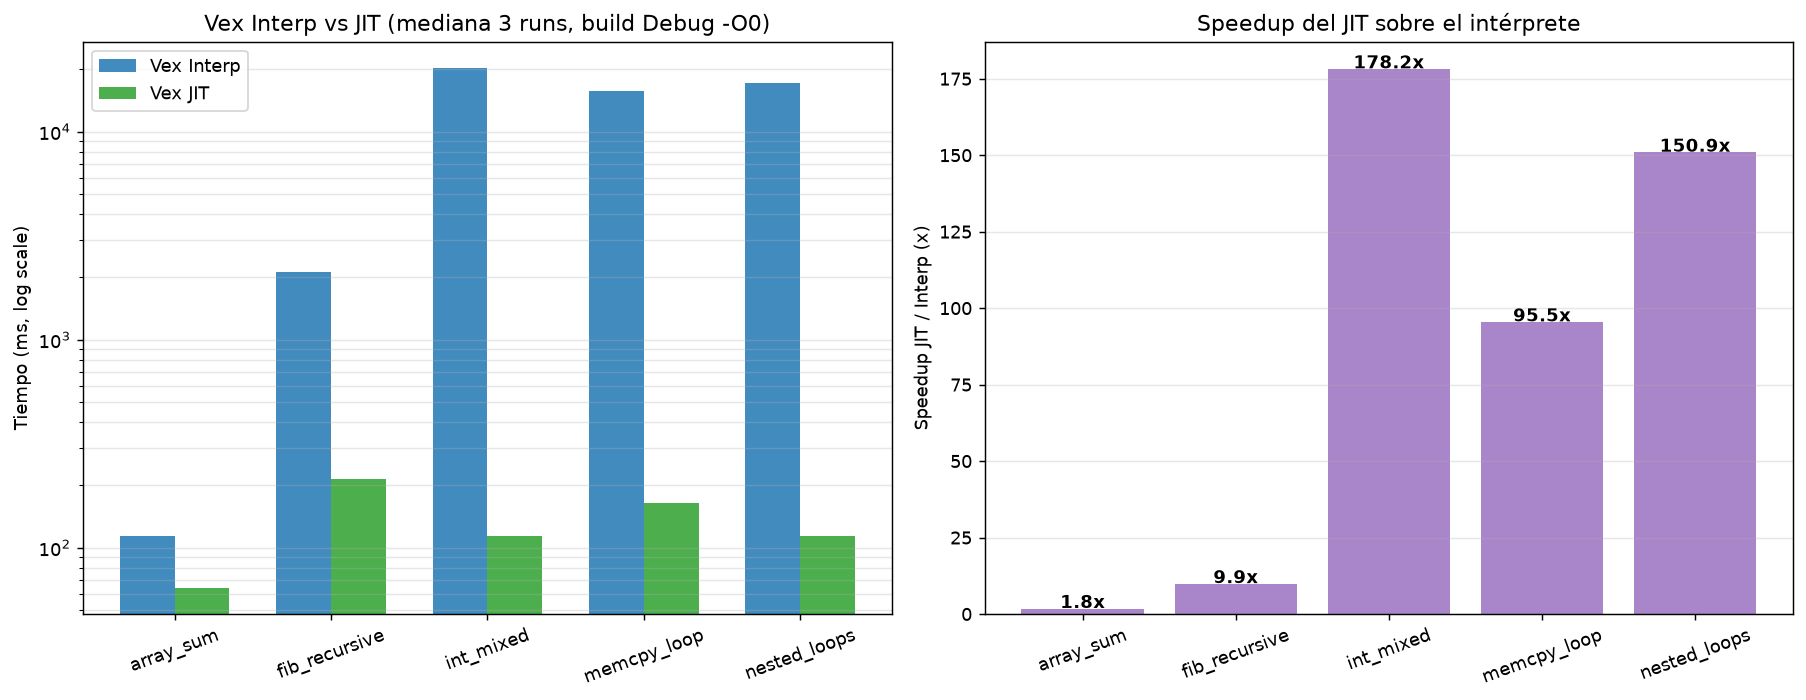
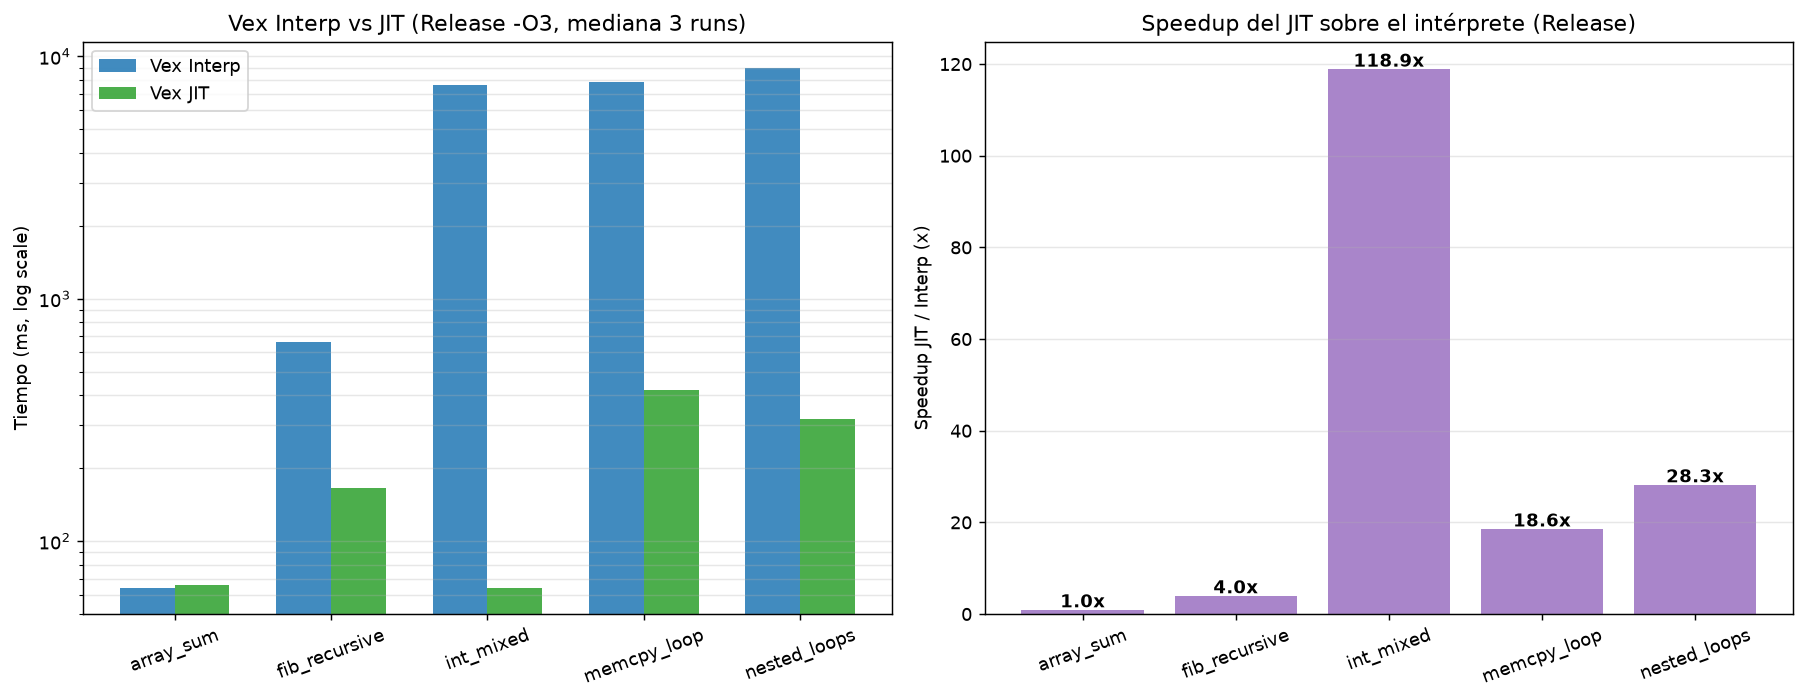
report: benchmarks locales en build Release (-O3) + gitignore build_release
- Compila build_release (Release -O3 -march=native) y regenera los datos
  de benchmark con el runner real (mediana 3 runs, wall externo).
- Actualiza bench_results/bench_linux_local.json con los numeros Release:
  array_sum 64/66ms, fib 665/165ms, int_mixed 7612/64ms, memcpy_loop
  7816/420ms, nested_loops 8984/318ms (interp/jit).
- Regenera docs/benchmarks/jit_vs_interp.png (speedup ~5-119x en Release) y
  unroll_impact_jit.png con datos Release: la regresion del unroll en el JIT
  C1 se confirma en optimizado (~+94%).
- README: seccion de informe local actualizada a Release (antes Debug -O0).
- .gitignore: anade build_release/ (no estaba cubierto; build/ si lo estaba).

diff --git a/README.md b/README.md
@@ -438,30 +438,30 @@ genera una gráfica dedicada por cada uno de los 27 benches en
 **Roadmap completo** (hasta JIT C2 con regalloc real + AOT con ejecutables
 `.exe` nativos en 3 tiers): [doc/ROADMAP.md](./doc/ROADMAP.md).
 
-### Informe de rendimiento local (Linux, build Debug)
+### Informe de rendimiento local (Linux, build Release)
 
 Benchmarks del runner en esta máquina (Linux x86_64, 8 cores, 24.9 GB RAM,
-`build/vm` Debug `-O0`, mediana de 3 runs, wall externo):
+`build_release/vm` Release `-O3 -march=native`, mediana de 3 runs, wall
+externo):
 
 ![JIT vs intérprete](./docs/benchmarks/jit_vs_interp.png)
 
-El JIT C1 da **~3-178×** sobre el intérprete según el bench (los intérprete
-puros como `int_mixed`/`memcpy_loop`/`nested_loops` son ~150× más lentos sin
-JIT; los `fib_recursive` ~10×).  Estos valores son de un build **Debug sin
-optimizar**; el Release (~`-O3`) mejora ambos términos.  Para números
-representativos del proyecto (build Release, i7-13700KF) ver la tabla de
+El JIT C1 da **~5-119×** sobre el intérprete según el bench en Release
+(`fib_recursive` ~4×, los intérprete puros como `nested_loops`/`int_mixed`
+~28-119×).  Estos son los números locales reales; para la comparativa
+multi-lenguaje completa (27 benches, i7-13700KF de Desmon) ver la tabla de
 "Estadísticas clave".
 
-**Impacto del unroll en el JIT** (array_sum, 400M LOAD, build Debug):
+**Impacto del unroll en el JIT** (array_sum, 400M LOAD, build Release):
 
 ![Impacto del unroll](./docs/benchmarks/unroll_impact_jit.png)
 
 Hallazgo honesto para la auditoría: en el JIT C1 actual el unroll es una
-**regresión** (~+65%).  La causa es arquitectónica — el C1 despacha cada
-instrucción vía helper sin register allocation, así que desenrollar solo
-multiplica los dispatch points y añade spills de stack.  El pase queda
-implementado, correcto (mismo resultado con/sin) y auditado, pero **off por
-defecto** hasta que el JIT C2 (regalloc real) lo pueda aprovechar.
+**regresión** (~+94% en Release, ~+65% en Debug).  La causa es arquitectónica
+— el C1 despacha cada instrucción vía helper sin register allocation, así que
+desenrollar solo multiplica los dispatch points y añade spills de stack.  El
+pase queda implementado, correcto (mismo resultado con/sin) y auditado, pero
+**off por defecto** hasta que el JIT C2 (regalloc real) lo pueda aprovechar.
 
 **Progreso de la suite de tests** (durante esta iteración):
 
